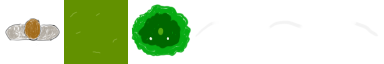
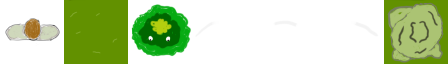
occluders

diff --git a/main.cpp b/main.cpp
@@ -1,5 +1,7 @@
 #include <flame/utils/app.h>
+#include <flame/universe/components/text.h>
 #include <flame/universe/components/image.h>
+#include <flame/universe/components/tile_map.h>
 
 using namespace flame;
 
@@ -10,22 +12,61 @@ Entity* root;
 
 graphics::ImageAtlas* atlas_main;
 uint atlas_main_id;
+int grass_id;
+int stone_id;
+
+cText* tip;
 
 struct Map
 {
+	inline static const auto cx = 100;
+	inline static const auto cy = 100;
+
+	int cells[cy][cx];
+
 	Entity* e;
 	cElement* ce;
+	cTileMap* ct;
 
 	void create()
 	{
+		for (auto i = 0; i < cy; i++)
+		{
+			for (auto j = 0; j < cx; j++)
+				cells[i][j] = -1;
+		}
+
 		e = Entity::create();
 		ce = cElement::create();
-		ce->set_width(10000.f);
-		ce->set_height(10000.f);
+		ce->set_width(64.f * cx);
+		ce->set_height(64.f * cy);
 		ce->set_border(1.f);
 		ce->set_border_color(Vec4c(255));
 		e->add_component(ce);
+		ct = cTileMap::create();
+		ct->set_res_id(atlas_main_id);
+		ct->set_cell_count(Vec2u(cx, cy));
+		ct->set_cell_size(Vec2f(64.f));
+		for (auto i = 0; i < cy; i++)
+		{
+			for (auto j = 0; j < cx; j++)
+				set_cell(Vec2u(j, i), (rand() % 100) >= 5 ? grass_id : stone_id);
+		}
+		ct->set_clipping(true);
+		e->add_component(ct);
 		root->add_child(e);
+	}
+
+	int get_cell(const Vec2u& idx)
+	{
+		return cells[idx.y()][idx.x()];
+	}
+
+	void set_cell(const Vec2u& idx, int t)
+	{
+		cells[idx.y()][idx.x()] = t;
+
+		ct->set_cell(idx, t, Vec4c(255));
 	}
 
 	void update_view();
@@ -110,20 +151,22 @@ struct Animation : Sprite
 	void play()
 	{
 		if (frame == -1)
-			frame = 0;
-	}
-
-	void advance()
-	{
-		if (frame != -1)
 		{
-			if (frame == frames.size())
-			{
-				frame = -1;
-				ci->set_tile_id(-1);
-			}
-			else
-				ci->set_tile_id(frames[frame++]);
+			frame = 0;
+			looper().add_event([](Capture& c) {
+				auto thiz = c.thiz<Animation>();
+				if (thiz->frame == thiz->frames.size())
+				{
+					thiz->frame = -1;
+					thiz->ci->set_tile_id(-1);
+				}
+				else
+				{
+					thiz->ci->set_tile_id(thiz->frames[thiz->frame]);
+					thiz->frame++;
+					c._current = INVALID_POINTER;
+				}
+			}, Capture().set_thiz(this));
 		}
 	}
 };
@@ -148,7 +191,7 @@ struct Player : Sprite
 
 	void create()
 	{
-		Sprite::create(map.e, Vec2f(100.f, 200.f), Vec2f(0.5f));
+		Sprite::create(map.e, Vec2f(64.f) * 50.f, Vec2f(0.5f));
 		ci->set_src("main.character");
 
 		ani_smash.create(e, Vec2f(32.f, 0.f));
@@ -179,9 +222,43 @@ struct Player : Sprite
 			dir += Vec2f(cos(rad), sin(rad));
 		}
 		if (dir != 0.f)
-			add_pos(normalize(dir) * 3.f);
-
-		ani_smash.advance();
+		{
+			dir = normalize(dir) * 3.f;
+			auto idx = Vec2u(pos / 64.f);
+			std::vector<Vec2u> occluders;
+			if (idx.x() > 0)
+				occluders.push_back(Vec2u(idx.x() - 1, idx.y()));
+			if (idx.x() < Map::cx - 1)
+				occluders.push_back(Vec2u(idx.x() + 1, idx.y()));
+			if (idx.y() > 0)
+				occluders.push_back(Vec2u(idx.x(), idx.y() - 1));
+			if (idx.y() < Map::cy - 1)
+				occluders.push_back(Vec2u(idx.x(), idx.y() + 1));
+			if (idx.x() > 0 && idx.y() > 0)
+				occluders.push_back(Vec2u(idx.x() - 1, idx.y() - 1));
+			if (idx.x() > 0 && idx.y() < Map::cy - 1)
+				occluders.push_back(Vec2u(idx.x() - 1, idx.y() + 1));
+			if (idx.x() < Map::cx - 1 && idx.y() > 0)
+				occluders.push_back(Vec2u(idx.x() + 1, idx.y() - 1));
+			if (idx.x() < Map::cx - 1 && idx.y() < Map::cy - 1)
+				occluders.push_back(Vec2u(idx.x() + 1, idx.y() + 1));
+			const auto r = 30.f;
+			const auto r_sq = r * r;
+			auto p = pos + dir;
+			for (auto& o : occluders)
+			{
+				if (map.get_cell(o) != grass_id)
+				{
+					auto LT = Vec2f(o) * 64.f;
+					auto RB = Vec2f(o + 1U) * 64.f;
+					auto c = clamp(p, LT, RB);
+					auto d_sq = distance_square(p, c);
+					if (d_sq < r_sq)
+						p += normalize(p - c) * (r - sqrt(d_sq));
+				}
+			}
+			set_pos(p);
+		}
 	}
 }player;
 
@@ -197,7 +274,7 @@ void Map::update_view()
 struct MainWindow : GraphicsWindow
 {
 	MainWindow() :
-		GraphicsWindow(&g_app, true, true, "", Vec2u(1280, 720), WindowFrame)
+		GraphicsWindow(&g_app, true, true, "", Vec2u(640), WindowFrame)
 	{
 		window->set_cursor(CursorNone);
 
@@ -205,6 +282,8 @@ struct MainWindow : GraphicsWindow
 
 		atlas_main = graphics::ImageAtlas::create(g_app.graphics_device, L"../art/main.atlas");
 		atlas_main_id = canvas->set_resource(-1, atlas_main, "main");
+		grass_id = atlas_main->find_tile("grass")->get_index();
+		stone_id = atlas_main->find_tile("stone")->get_index();
 	}
 
 	void on_frame() override
@@ -212,6 +291,8 @@ struct MainWindow : GraphicsWindow
 		player.update();
 
 		map.update_view();
+
+		tip->set_text((to_wstring(player.pos) + L"\n" + to_wstring(Vec2u(player.pos / 64.f))).c_str());
 	}
 };
 
@@ -225,14 +306,8 @@ int main(int argc, char** args)
 
 	map.create();
 
-	Sprite s1, s2;
-	s1.create(map.e, Vec2f(100.f));
-	s1.ce->set_fill_color(Vec4c(255, 0, 0, 255));
-	s2.create(map.e, Vec2f(200.f));
-	s2.ce->set_fill_color(Vec4c(255, 0, 0, 255));
-
 	Monster m1;
-	m1.create(Vec2f(300.f));
+	m1.create(Vec2f(64.f) * 48.f);
 
 	player.create();
 
@@ -284,6 +359,15 @@ int main(int argc, char** args)
 	cer->add_mouse_left_down_listener([](Capture&, const Vec2i& pos) {
 		player.ani_smash.play();
 	}, Capture());
+
+	{
+		auto e = Entity::create();
+		e->add_component(cElement::create());
+		tip = cText::create();
+		tip->set_color(Vec4c(255));
+		e->add_component(tip);
+		root->add_child(e);
+	}
 
 	g_app.run();
 
